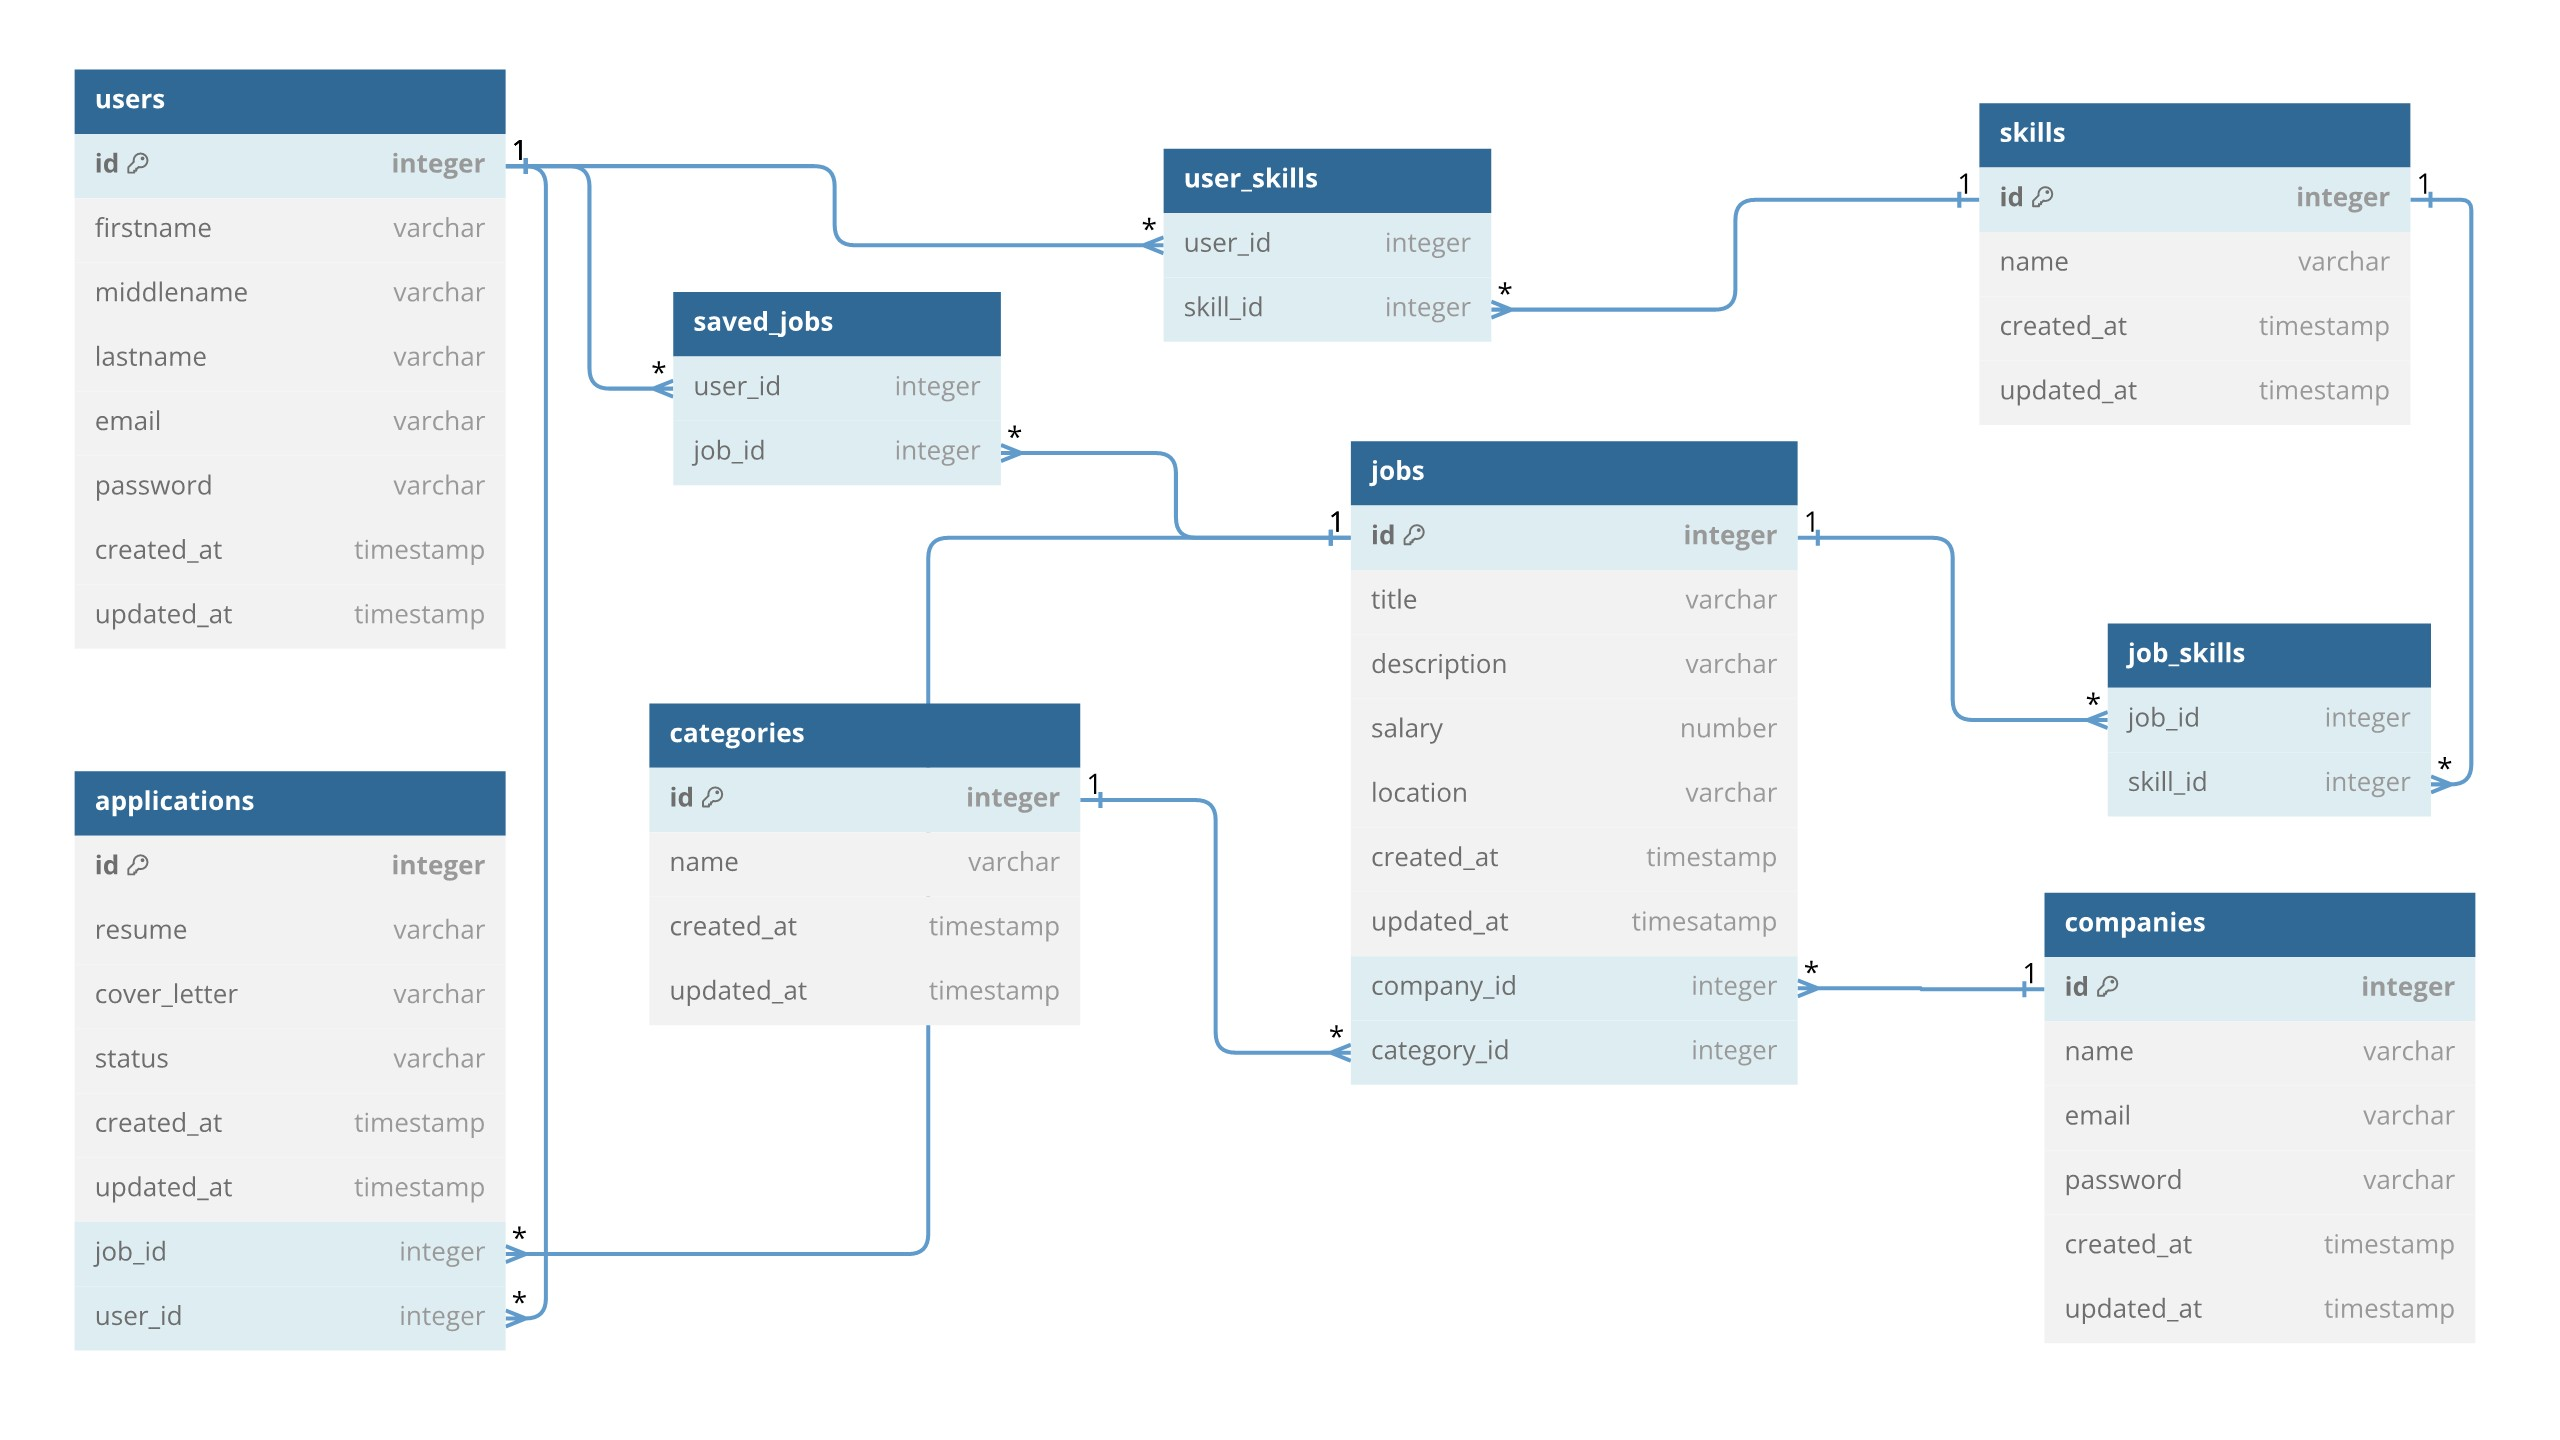
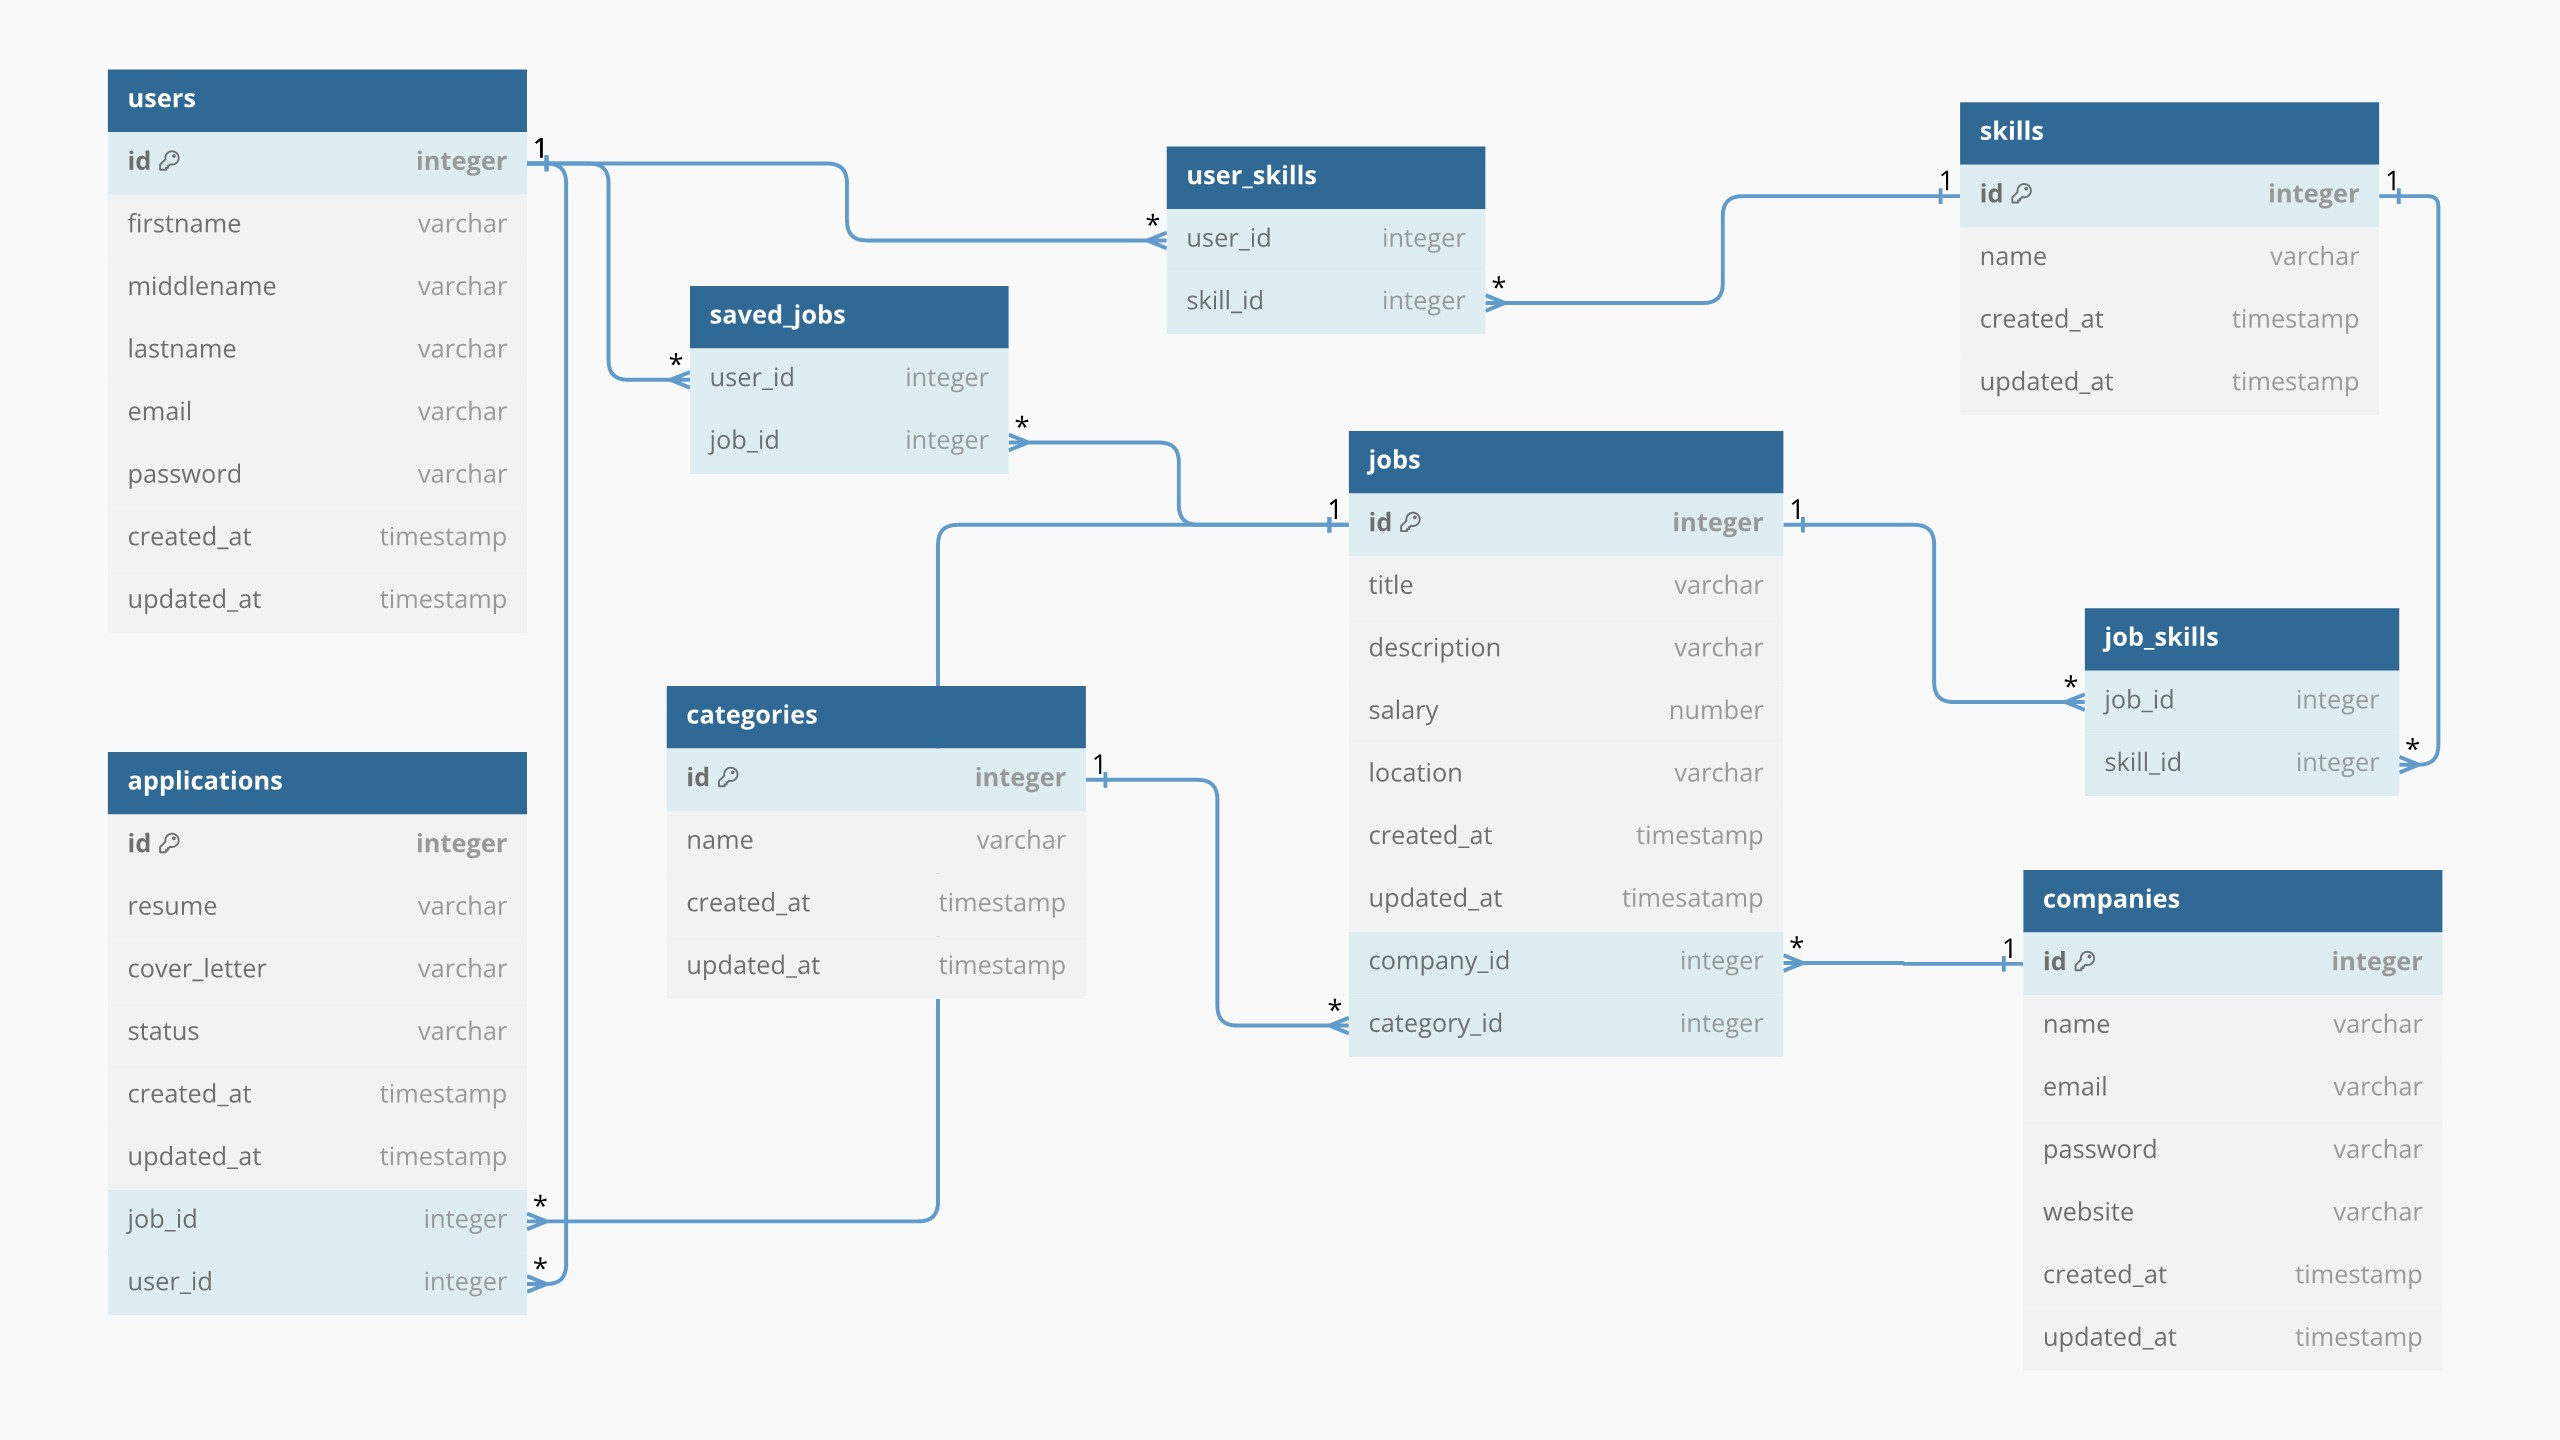
create database migration and implement relation between objects

diff --git a/backend/database/migrations/2024_04_15_150806_create_applications_table.php b/backend/database/migrations/2024_04_15_150806_create_applications_table.php
@@ -13,16 +13,14 @@ return new class extends Migration
      */
     public function up()
     {
-        Schema::create('users', function (Blueprint $table) {
+        Schema::create('applications', function (Blueprint $table) {
             $table->id();
-            $table->string('firstname');
-            $table->string('middlename');
-            $table->string('lastname');
-            $table->string('email')->unique();
-            // $table->timestamp('email_verified_at')->nullable();
-            $table->string('password');
-            $table->rememberToken();
+            $table->string('resume', 32);
+            $table->string('cover_letter', 32)->default('none');
+            $table->string('status', 64);
             $table->timestamps();
+            $table->foreignId('job_id')->constrained()->onUpdate('cascade')->onDelete('cascade');
+            $table->foreignId('user_id')->constrained()->onUpdate('cascade')->onDelete('cascade');
         });
     }
 
@@ -33,6 +31,6 @@ return new class extends Migration
      */
     public function down()
     {
-        Schema::dropIfExists('users');
+        Schema::dropIfExists('applications');
     }
 };

diff --git a/backend/database/migrations/2024_04_15_150731_create_jobs_table.php b/backend/database/migrations/2024_04_15_150731_create_jobs_table.php
@@ -1,0 +1,37 @@
+<?php
+
+use Illuminate\Database\Migrations\Migration;
+use Illuminate\Database\Schema\Blueprint;
+use Illuminate\Support\Facades\Schema;
+
+return new class extends Migration
+{
+    /**
+     * Run the migrations.
+     *
+     * @return void
+     */
+    public function up()
+    {
+        Schema::create('jobs', function (Blueprint $table) {
+            $table->id();
+            $table->string('title',64);
+            $table->string('description', 1024);
+            $table->float('salary', 8, 2);
+            $table->string('location', 128);
+            $table->timestamps();
+            $table->foreignId('company_id')->constrained()->onUpdate('cascade')->onDelete('cascade');
+            $table->foreignId('category_id')->constrained()->onUpdate('cascade')->onDelete('cascade');
+        });
+    }
+
+    /**
+     * Reverse the migrations.
+     *
+     * @return void
+     */
+    public function down()
+    {
+        Schema::dropIfExists('jobs');
+    }
+};

diff --git a/backend/database/migrations/2024_04_15_153159_saved_jobs.php b/backend/database/migrations/2024_04_15_153159_saved_jobs.php
@@ -13,15 +13,9 @@ return new class extends Migration
      */
     public function up()
     {
-        Schema::create('users', function (Blueprint $table) {
-            $table->id();
-            $table->string('firstname');
-            $table->string('middlename');
-            $table->string('lastname');
-            $table->string('email')->unique();
-            // $table->timestamp('email_verified_at')->nullable();
-            $table->string('password');
-            $table->rememberToken();
+        Schema::create('saved_jobs', function (Blueprint $table) {
+            $table->foreignId('user_id')->constrained()->onUpdate('cascade')->onDelete('cascade');
+            $table->foreignId('job_id')->constrained()->onUpdate('cascade')->onDelete('cascade');
             $table->timestamps();
         });
     }
@@ -33,6 +27,6 @@ return new class extends Migration
      */
     public function down()
     {
-        Schema::dropIfExists('users');
+        //
     }
 };

diff --git a/backend/database/migrations/2024_04_15_150320_create_companies_table.php b/backend/database/migrations/2024_04_15_150320_create_companies_table.php
@@ -13,15 +13,12 @@ return new class extends Migration
      */
     public function up()
     {
-        Schema::create('users', function (Blueprint $table) {
+        Schema::create('companies', function (Blueprint $table) {
             $table->id();
-            $table->string('firstname');
-            $table->string('middlename');
-            $table->string('lastname');
-            $table->string('email')->unique();
-            // $table->timestamp('email_verified_at')->nullable();
+            $table->string('name');
+            $table->string('email');
             $table->string('password');
-            $table->rememberToken();
+            $table->string('website');
             $table->timestamps();
         });
     }
@@ -33,6 +30,6 @@ return new class extends Migration
      */
     public function down()
     {
-        Schema::dropIfExists('users');
+        Schema::dropIfExists('companies');
     }
 };

diff --git a/backend/database/migrations/2024_04_15_150517_create_categories_table.php b/backend/database/migrations/2024_04_15_150517_create_categories_table.php
@@ -13,15 +13,9 @@ return new class extends Migration
      */
     public function up()
     {
-        Schema::create('users', function (Blueprint $table) {
+        Schema::create('categories', function (Blueprint $table) {
             $table->id();
-            $table->string('firstname');
-            $table->string('middlename');
-            $table->string('lastname');
-            $table->string('email')->unique();
-            // $table->timestamp('email_verified_at')->nullable();
-            $table->string('password');
-            $table->rememberToken();
+            $table->string('name');
             $table->timestamps();
         });
     }
@@ -33,6 +27,6 @@ return new class extends Migration
      */
     public function down()
     {
-        Schema::dropIfExists('users');
+        Schema::dropIfExists('categories');
     }
 };

diff --git a/backend/database/migrations/2024_04_15_150340_create_skills_table.php b/backend/database/migrations/2024_04_15_150340_create_skills_table.php
@@ -13,15 +13,9 @@ return new class extends Migration
      */
     public function up()
     {
-        Schema::create('users', function (Blueprint $table) {
+        Schema::create('skills', function (Blueprint $table) {
             $table->id();
-            $table->string('firstname');
-            $table->string('middlename');
-            $table->string('lastname');
-            $table->string('email')->unique();
-            // $table->timestamp('email_verified_at')->nullable();
-            $table->string('password');
-            $table->rememberToken();
+            $table->string('name');
             $table->timestamps();
         });
     }
@@ -33,6 +27,6 @@ return new class extends Migration
      */
     public function down()
     {
-        Schema::dropIfExists('users');
+        Schema::dropIfExists('skills');
     }
 };

diff --git a/backend/database/migrations/2024_04_15_153230_user_skills.php b/backend/database/migrations/2024_04_15_153230_user_skills.php
@@ -1,0 +1,31 @@
+<?php
+
+use Illuminate\Database\Migrations\Migration;
+use Illuminate\Database\Schema\Blueprint;
+use Illuminate\Support\Facades\Schema;
+
+return new class extends Migration
+{
+    /**
+     * Run the migrations.
+     *
+     * @return void
+     */
+    public function up()
+    {
+        Schema::create('user_skills', function (Blueprint $table) {
+            $table->foreignId('user_id')->constrained()->onUpdate('cascade')->onDelete('cascade');
+            $table->foreignId('skill_id')->constrained()->onUpdate('cascade')->onDelete('cascade');
+        });
+    }
+
+    /**
+     * Reverse the migrations.
+     *
+     * @return void
+     */
+    public function down()
+    {
+        //
+    }
+};

diff --git a/backend/database/migrations/2024_04_15_153219_job_skills.php b/backend/database/migrations/2024_04_15_153219_job_skills.php
@@ -1,0 +1,31 @@
+<?php
+
+use Illuminate\Database\Migrations\Migration;
+use Illuminate\Database\Schema\Blueprint;
+use Illuminate\Support\Facades\Schema;
+
+return new class extends Migration
+{
+    /**
+     * Run the migrations.
+     *
+     * @return void
+     */
+    public function up()
+    {
+        Schema::create('job_skills', function (Blueprint $table) {
+            $table->foreignId('job_id')->constrained()->onUpdate('cascade')->onDelete('cascade');
+            $table->foreignId('skill_id')->constrained()->onUpdate('cascade')->onDelete('cascade');
+        });
+    }
+
+    /**
+     * Reverse the migrations.
+     *
+     * @return void
+     */
+    public function down()
+    {
+        //
+    }
+};

diff --git a/backend/app/Models/Job.php b/backend/app/Models/Job.php
@@ -1,0 +1,30 @@
+<?php
+
+namespace App\Models;
+
+use Illuminate\Database\Eloquent\Factories\HasFactory;
+use Illuminate\Database\Eloquent\Model;
+use Illuminate\Database\Eloquent\Relations\BelongsTo;
+use Illuminate\Database\Eloquent\Relations\HasMany;
+
+class Job extends Model
+{
+    use HasFactory;
+
+    public function company():BelongsTo {
+        return $this->belongsTo(Company::class);
+    }
+
+    public function category():BelongsTo {
+        return $this->belongsTo(Category::class);
+    }
+
+    public function skills(): HasMany {
+        return $this->hasMany(Skill::class);
+    }
+
+    public function applications(): HasMany {
+        return $this->hasMany(Application::class);
+    }
+
+}

diff --git a/backend/app/Models/User.php b/backend/app/Models/User.php
@@ -4,6 +4,7 @@ namespace App\Models;
 
 // use Illuminate\Contracts\Auth\MustVerifyEmail;
 use Illuminate\Database\Eloquent\Factories\HasFactory;
+use Illuminate\Database\Eloquent\Relations\HasMany;
 use Illuminate\Foundation\Auth\User as Authenticatable;
 use Illuminate\Notifications\Notifiable;
 use Laravel\Sanctum\HasApiTokens;
@@ -41,4 +42,13 @@ class User extends Authenticatable
     protected $casts = [
         'email_verified_at' => 'datetime',
     ];
+
+
+    public function saved_jobs(): HasMany {
+        return $this->hasMany(Job::class);
+    }
+
+    public function skills(): HasMany {
+        return $this->hasMany(Skill::class);
+    }
 }

diff --git a/backend/app/Models/Application.php b/backend/app/Models/Application.php
@@ -1,0 +1,23 @@
+<?php
+
+namespace App\Models;
+
+use Illuminate\Database\Eloquent\Factories\HasFactory;
+use Illuminate\Database\Eloquent\Model;
+use Illuminate\Database\Eloquent\Relations\BelongsTo;
+use Illuminate\Database\Eloquent\Relations\HasOne;
+
+class Application extends Model
+{
+    use HasFactory;
+
+
+    public function job(): BelongsTo {
+        return $this->belongsTo(Job::class);
+    }
+
+    public function user(): BelongsTo {
+        return $this->belongsTo(User::class);
+    }
+
+}

diff --git a/backend/app/Models/Skill.php b/backend/app/Models/Skill.php
@@ -1,0 +1,21 @@
+<?php
+
+namespace App\Models;
+
+use Illuminate\Database\Eloquent\Factories\HasFactory;
+use Illuminate\Database\Eloquent\Model;
+use Illuminate\Database\Eloquent\Relations\BelongsToMany;
+
+class Skill extends Model
+{
+    use HasFactory;
+
+    public function users(): BelongsToMany {
+        return $this->belongsToMany(User::class);
+    }
+
+    public function jobs(): BelongsToMany {
+        return $this->belongsToMany(Job::class);
+    }
+
+}
